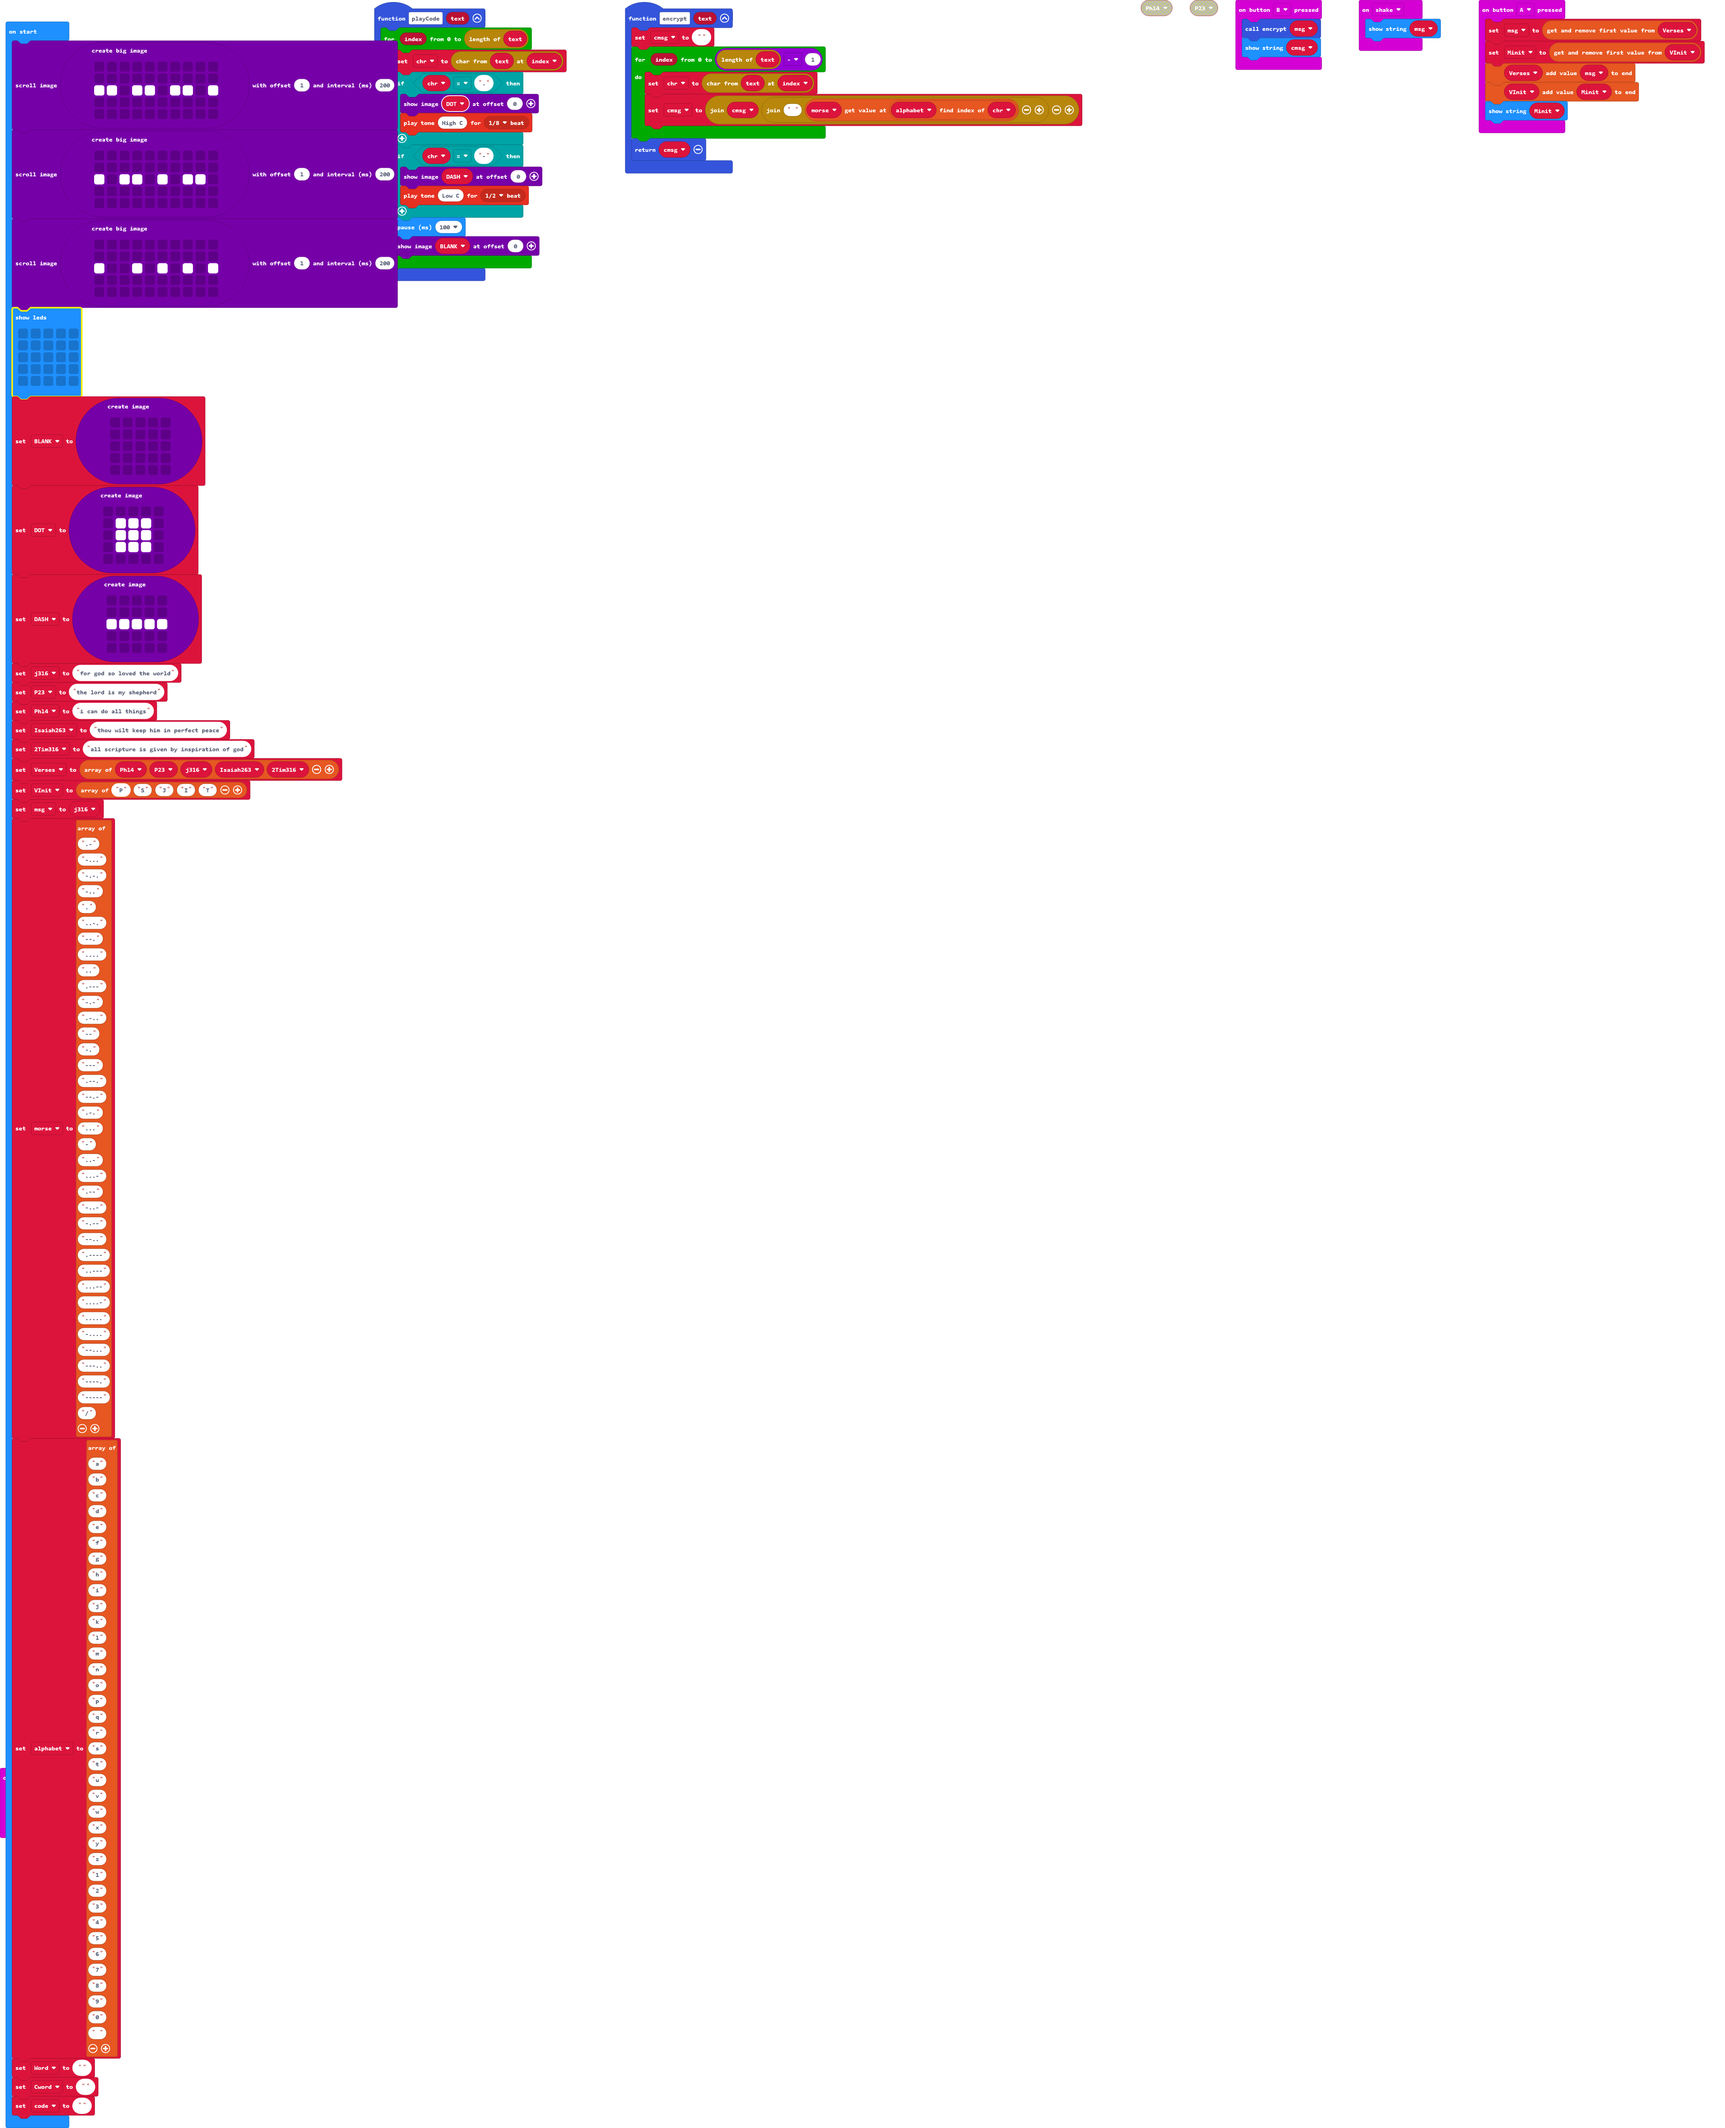
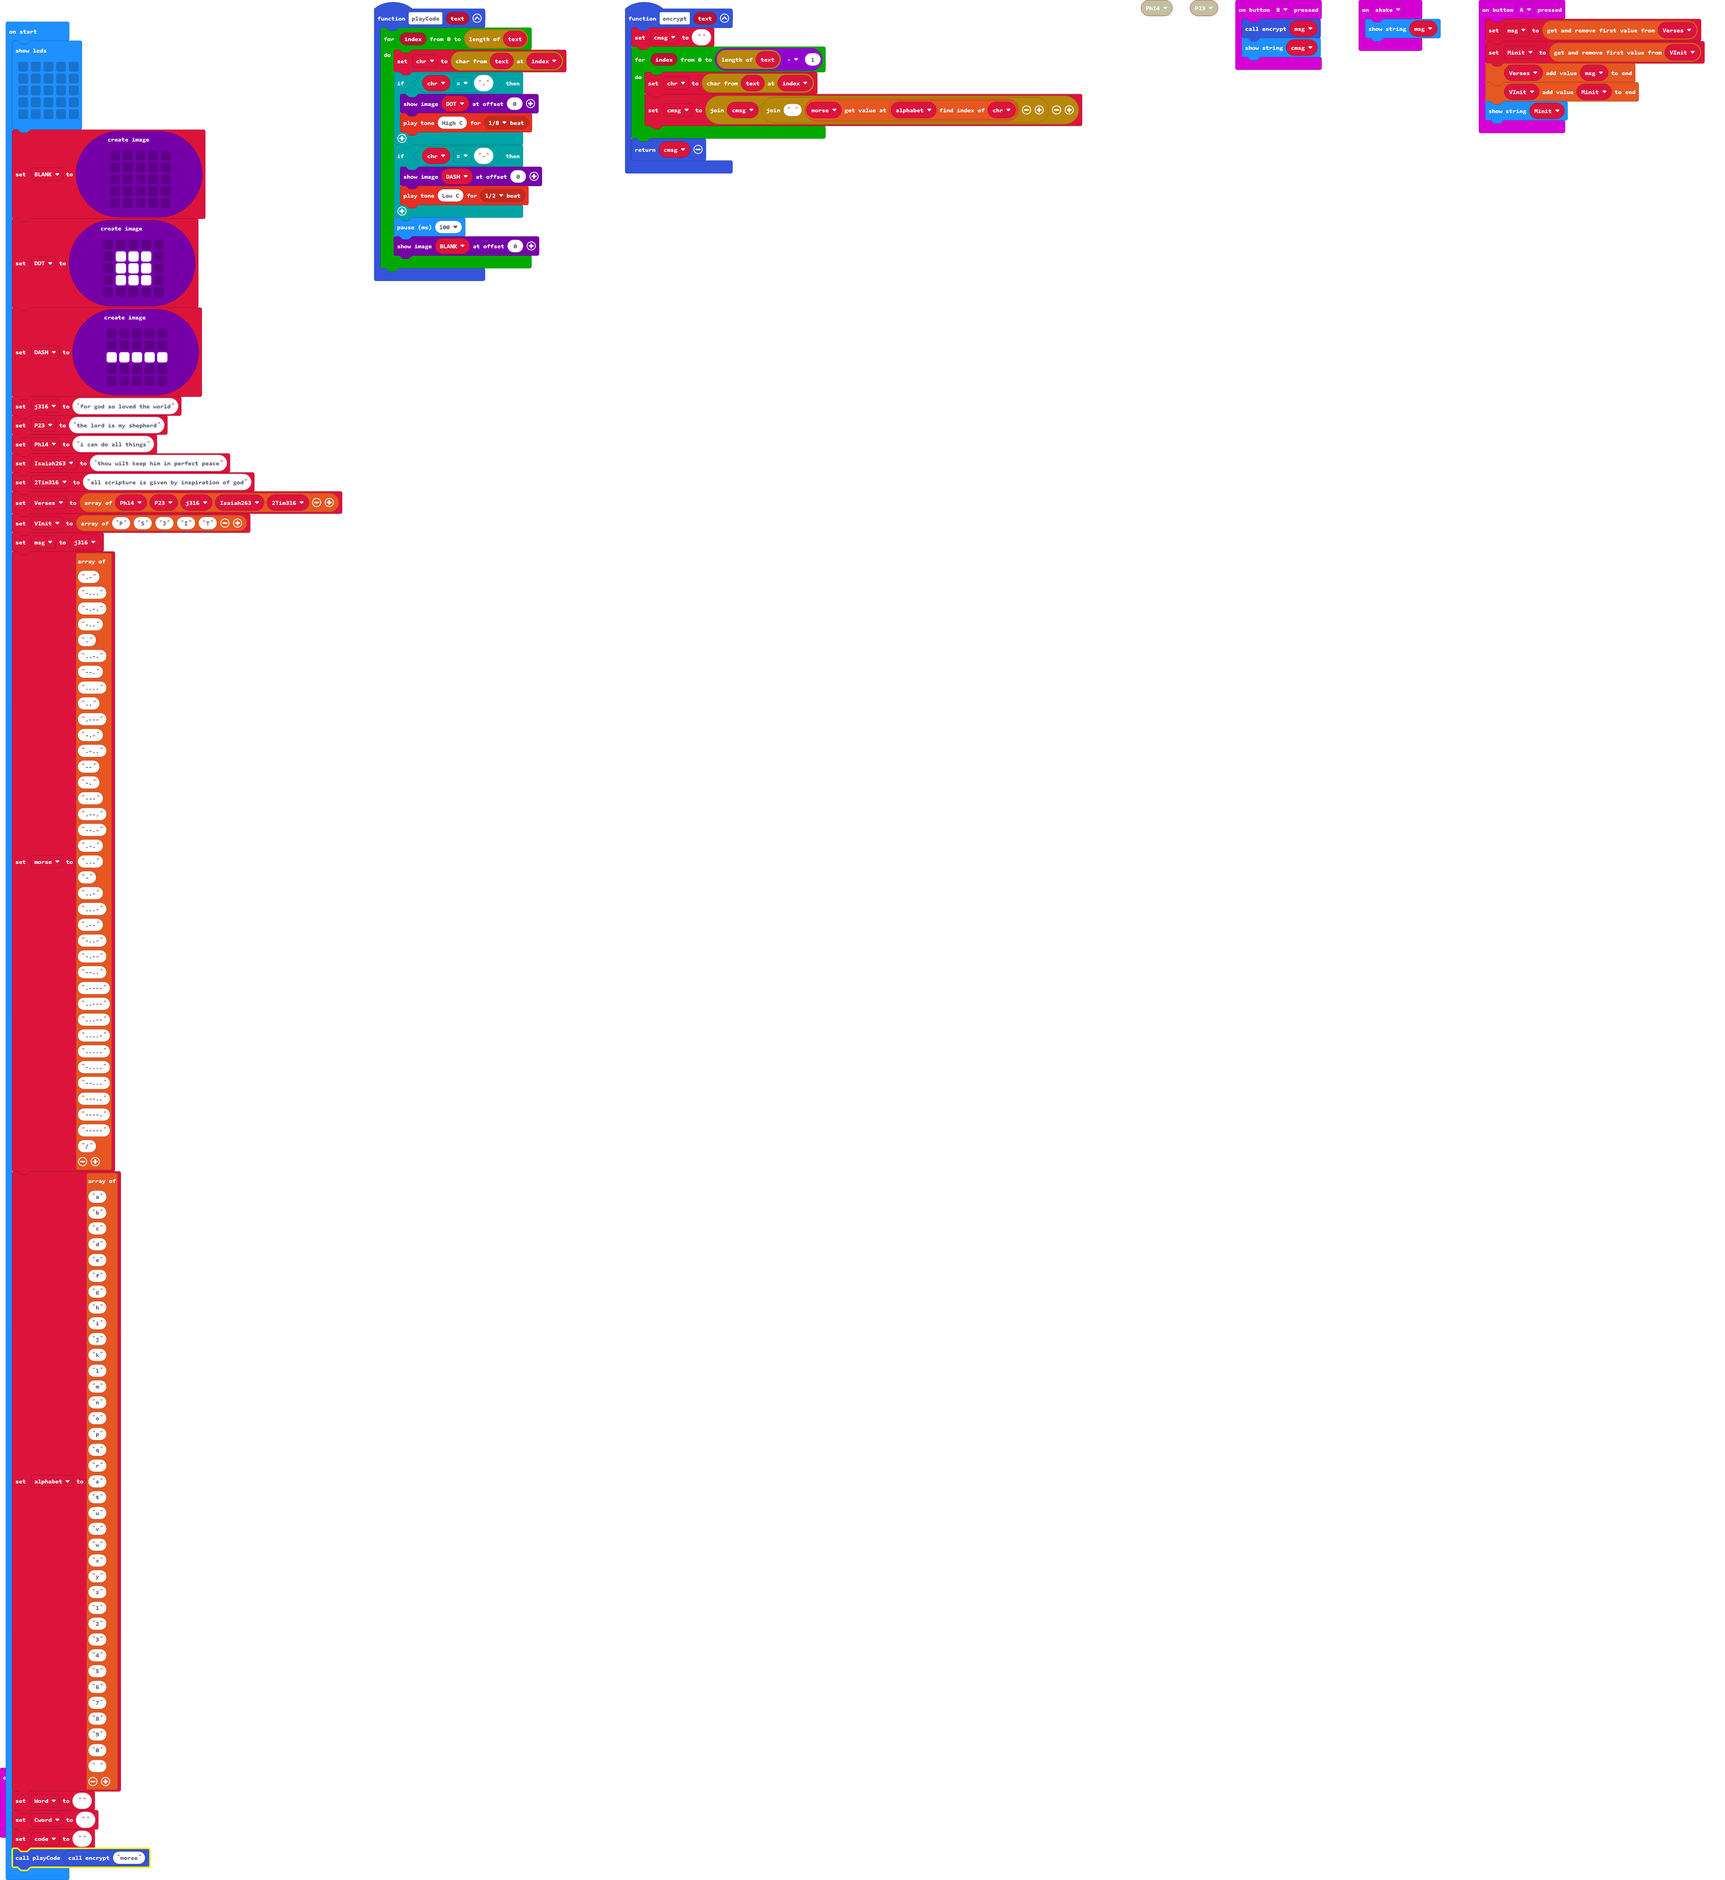
Update main.blocks, main.ts

diff --git a/main.ts b/main.ts
@@ -50,27 +50,6 @@ let Verses: string[] = []
 let DASH: Image = null
 let DOT: Image = null
 let BLANK: Image = null
-images.createBigImage(`
-    . . . . . . . . . .
-    . . . . . . . . . .
-    # # . # # . # # . #
-    . . . . . . . . . .
-    . . . . . . . . . .
-    `).scrollImage(1, 200)
-images.createBigImage(`
-    . . . . . . . . . .
-    . . . . . . . . . .
-    # . # # . # . # # .
-    . . . . . . . . . .
-    . . . . . . . . . .
-    `).scrollImage(1, 200)
-images.createBigImage(`
-    . . . . . . . . . .
-    . . . . . . . . . .
-    # . . # . # . # . #
-    . . . . . . . . . .
-    . . . . . . . . . .
-    `).scrollImage(1, 200)
 basic.showLeds(`
     . . . . .
     . . . . .
@@ -112,3 +91,4 @@ alphabet = ["a", "b", "c", "d", "e", "f", "g", "h", "i", "j", "k", "l", "m", "n"
 let Word = ""
 let Cword = ""
 let code = ""
+playCode(encrypt("morse"))
